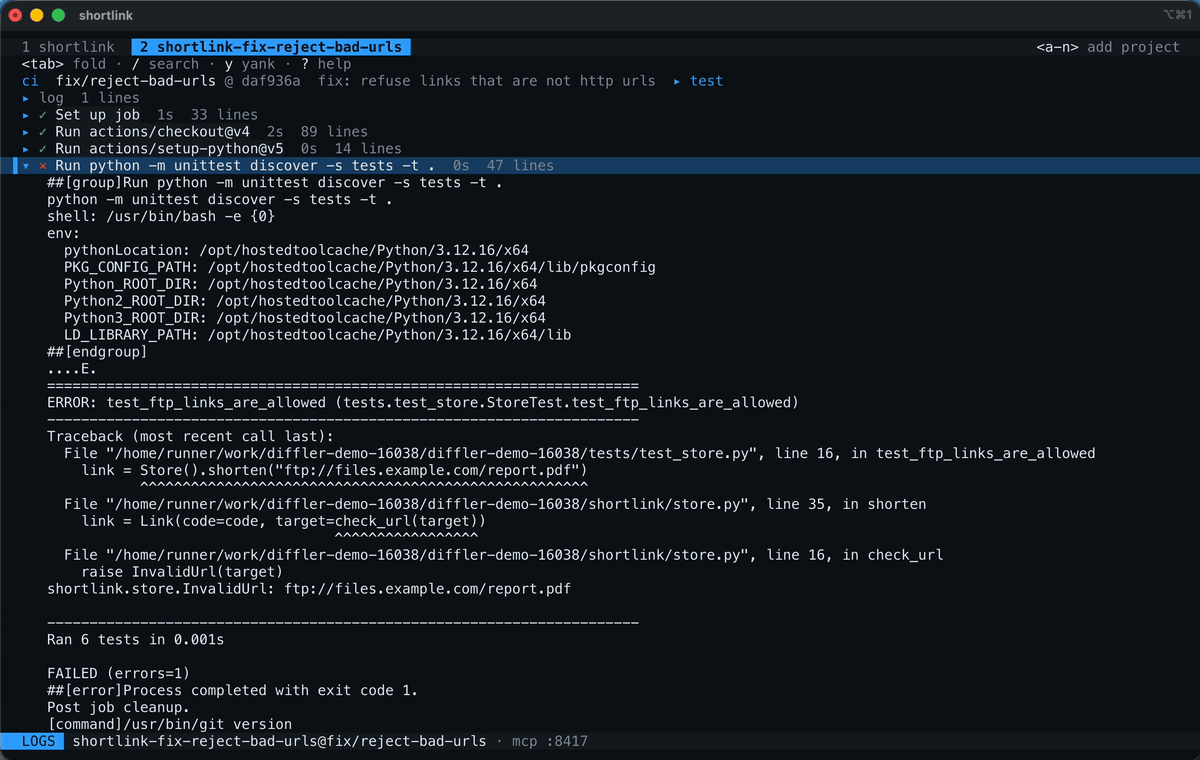
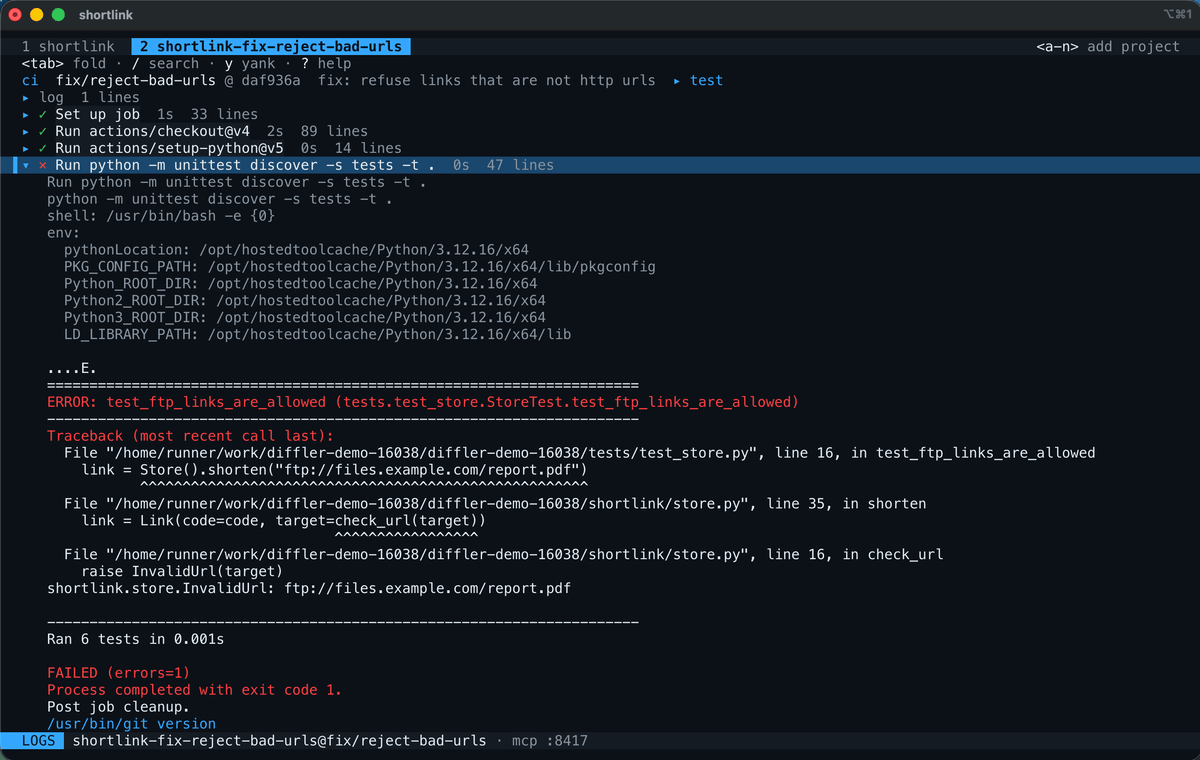
feat: hide workflow markers and color ci log lines by what they are

diff --git a/crates/diffler/src/app/ci_log.rs b/crates/diffler/src/app/ci_log.rs
@@ -20,7 +20,89 @@ pub struct CiLogStep {
     pub status: Option<JobStatus>,
     pub duration_secs: Option<i64>,
     pub lines: Vec<String>,
+    /// One per line of `lines`.
+    pub kinds: Vec<LogLineKind>,
     pub folded: bool,
+}
+
+impl CiLogStep {
+    fn new(
+        name: String,
+        status: Option<JobStatus>,
+        duration_secs: Option<i64>,
+        lines: Vec<String>,
+    ) -> Self {
+        Self {
+            name,
+            status,
+            duration_secs,
+            lines,
+            kinds: Vec::new(),
+            folded: true,
+        }
+    }
+}
+
+/// What a log line is to its reader, from the runner's `##[...]` workflow
+/// commands and the usual failure words.
+#[derive(Debug, Clone, Copy, PartialEq, Eq)]
+pub enum LogLineKind {
+    Plain,
+    /// What the runner prints inside a `##[group]` (the command, its shell and
+    /// environment) and its debug output.
+    Muted,
+    GroupEdge,
+    Command,
+    Error,
+    Warning,
+    Notice,
+}
+
+impl LogLineKind {
+    fn classify(lines: &[String]) -> Vec<Self> {
+        let mut in_group = false;
+        lines
+            .iter()
+            .map(|line| {
+                let kind = Self::of(line, in_group);
+                if kind == Self::GroupEdge {
+                    in_group = line.starts_with("##[group]");
+                }
+                kind
+            })
+            .collect()
+    }
+
+    fn of(line: &str, in_group: bool) -> Self {
+        if let Some((marker, _)) = workflow_command(line) {
+            return match marker {
+                "group" | "endgroup" => Self::GroupEdge,
+                "command" => Self::Command,
+                "error" => Self::Error,
+                "warning" => Self::Warning,
+                "notice" => Self::Notice,
+                _ => Self::Muted,
+            };
+        }
+        if in_group {
+            return Self::Muted;
+        }
+        let trimmed = line.trim_start();
+        let failed = ["error:", "error[", "ERROR", "FAILED", "FAIL ", "Traceback"]
+            .iter()
+            .any(|word| trimmed.starts_with(word))
+            || trimmed.contains("panicked at");
+        if failed { Self::Error } else { Self::Plain }
+    }
+}
+
+/// The marker and the text after it, for a line like `##[error]boom`. GitHub
+/// prints the commands its own actions run as `[command]git version`.
+pub fn workflow_command(line: &str) -> Option<(&str, &str)> {
+    if let Some(rest) = line.strip_prefix("[command]") {
+        return Some(("command", rest));
+    }
+    line.strip_prefix("##[")?.split_once(']')
 }
 
 #[derive(Debug, Clone, Copy, PartialEq, Eq)]
@@ -40,11 +122,14 @@ pub struct CiLogView {
 
 impl CiLogView {
     pub fn parse(raw: &str, metas: &[LogStepMeta]) -> Self {
-        let steps = if metas.is_empty() {
+        let mut steps = if metas.is_empty() {
             sections_by_group(raw)
         } else {
             sections_by_step(raw, metas)
         };
+        for step in &mut steps {
+            step.kinds = LogLineKind::classify(&step.lines);
+        }
         Self {
             steps,
             cursor: 0,
@@ -333,22 +418,15 @@ fn sections_by_step(raw: &str, metas: &[LogStepMeta]) -> Vec<CiLogStep> {
     }
     let mut steps = Vec::new();
     if !leading.is_empty() {
-        steps.push(CiLogStep {
-            name: String::new(),
-            status: None,
-            duration_secs: None,
-            lines: leading,
-            folded: true,
-        });
+        steps.push(CiLogStep::new(String::new(), None, None, leading));
     }
     for (meta, lines) in metas.iter().zip(buckets) {
-        steps.push(CiLogStep {
-            name: meta.name.clone(),
-            status: Some(meta.status),
-            duration_secs: meta.duration_secs,
+        steps.push(CiLogStep::new(
+            meta.name.clone(),
+            Some(meta.status),
+            meta.duration_secs,
             lines,
-            folded: true,
-        });
+        ));
     }
     steps
 }
@@ -375,13 +453,12 @@ fn sections_by_group(raw: &str) -> Vec<CiLogStep> {
     for raw_line in raw.lines() {
         let (_, content) = line_key_and_content(raw_line);
         if let Some(name) = content.strip_prefix("##[group]") {
-            steps.push(CiLogStep {
-                name: name.trim().to_owned(),
-                status: None,
-                duration_secs: None,
-                lines: Vec::new(),
-                folded: true,
-            });
+            steps.push(CiLogStep::new(
+                name.trim().to_owned(),
+                None,
+                None,
+                Vec::new(),
+            ));
             continue;
         }
         if content.trim_end() == "##[endgroup]" {
@@ -393,16 +470,7 @@ fn sections_by_group(raw: &str) -> Vec<CiLogStep> {
         }
     }
     if !leading.is_empty() {
-        steps.insert(
-            0,
-            CiLogStep {
-                name: String::new(),
-                status: None,
-                duration_secs: None,
-                lines: leading,
-                folded: true,
-            },
-        );
+        steps.insert(0, CiLogStep::new(String::new(), None, None, leading));
     }
     steps
 }

diff --git a/crates/diffler/src/ui/ci_log.rs b/crates/diffler/src/ui/ci_log.rs
@@ -6,7 +6,7 @@ use ratatui::text::{Line, Span};
 use ratatui::widgets::Paragraph;
 
 use crate::app::App;
-use crate::app::ci_log::{CiLogRow, CiLogView};
+use crate::app::ci_log::{CiLogRow, CiLogView, LogLineKind, workflow_command};
 use crate::app::rowsel::RowSelect;
 use crate::ci::fmt_duration;
 use crate::keymap::Action;
@@ -115,12 +115,49 @@ fn row_line(
             ));
             Line::from(spans)
         }
-        CiLogRow::Line { .. } => {
+        CiLogRow::Line { step, line } => {
             let text = view.line_text(row);
+            let kind = view
+                .steps
+                .get(step)
+                .and_then(|step| step.kinds.get(line))
+                .copied()
+                .unwrap_or(LogLineKind::Plain);
+            let shown = match (kind, workflow_command(text)) {
+                (LogLineKind::GroupEdge, Some(("endgroup", _))) => "",
+                (_, Some((_, rest))) => rest,
+                (_, None) => text,
+            };
+            let skipped = text.len() - shown.len();
+            let search: Vec<_> = search
+                .iter()
+                .filter(|(range, _)| range.end > skipped)
+                .map(|(range, current)| {
+                    (
+                        range.start.saturating_sub(skipped)..range.end - skipped,
+                        *current,
+                    )
+                })
+                .collect();
             let mut spans = vec![Span::styled("    ", theme.base())];
-            spans.extend(super::highlight_spans(text, theme.base(), search, theme));
+            spans.extend(super::highlight_spans(
+                shown,
+                line_style(theme, kind),
+                &search,
+                theme,
+            ));
             Line::from(spans)
         }
+    }
+}
+
+fn line_style(theme: &Theme, kind: LogLineKind) -> Style {
+    match kind {
+        LogLineKind::Plain => theme.base(),
+        LogLineKind::Muted | LogLineKind::GroupEdge => theme.dim_style(),
+        LogLineKind::Command | LogLineKind::Notice => theme.base().fg(theme.accent),
+        LogLineKind::Error => theme.base().fg(theme.error_fg),
+        LogLineKind::Warning => theme.base().fg(theme.warn_fg),
     }
 }
 
@@ -155,6 +192,58 @@ mod tests {
         let backend = TestBackend::new(60, 8);
         let mut terminal = Terminal::new(backend).expect("terminal");
         terminal.draw(|f| draw(f, &mut app)).expect("draw");
+        insta::assert_snapshot!(terminal.backend());
+    }
+
+    #[test]
+    fn an_unfolded_step_hides_workflow_markers_and_dims_runner_setup() {
+        use crate::ci::{JobStatus, LogStepMeta, ts_sort_key};
+        let fixture = standard_fixture();
+        let mut app = App::new(fixture.review(), LoadedConfig::default());
+        let event = app.test_log_event(
+            "2026-06-20T00:00:00Z ##[group]Run cargo test\n\
+             2026-06-20T00:00:00Z cargo test\n\
+             2026-06-20T00:00:00Z shell: /usr/bin/bash -e {0}\n\
+             2026-06-20T00:00:00Z ##[endgroup]\n\
+             2026-06-20T00:00:01Z test widgets ... FAILED\n\
+             2026-06-20T00:00:02Z ##[error]Process completed with exit code 1.\n\
+             2026-06-20T00:00:03Z [command]/usr/bin/git version\n",
+            vec![LogStepMeta {
+                name: "Run cargo test".into(),
+                status: JobStatus::Failed,
+                start_key: ts_sort_key("2026-06-20T00:00:00Z"),
+                end_key: 0,
+                duration_secs: Some(3),
+            }],
+        );
+        app.handle(event);
+        let view = app.ci_log.as_mut().expect("ci_log view");
+        view.steps[0].folded = false;
+        assert_eq!(
+            view.steps[0].kinds,
+            [
+                LogLineKind::GroupEdge,
+                LogLineKind::Muted,
+                LogLineKind::Muted,
+                LogLineKind::GroupEdge,
+                LogLineKind::Plain,
+                LogLineKind::Error,
+                LogLineKind::Command,
+            ]
+        );
+        let backend = TestBackend::new(60, 11);
+        let mut terminal = Terminal::new(backend).expect("terminal");
+        terminal.draw(|f| draw(f, &mut app)).expect("draw");
+        let buffer = terminal.backend().buffer().clone();
+        let error_row = (0..buffer.area.height)
+            .find(|&y| {
+                (0..buffer.area.width)
+                    .map(|x| buffer[(x, y)].symbol())
+                    .collect::<String>()
+                    .contains("Process completed")
+            })
+            .expect("error line on screen");
+        assert_eq!(buffer[(4, error_row)].fg, app.theme.error_fg);
         insta::assert_snapshot!(terminal.backend());
     }
 
